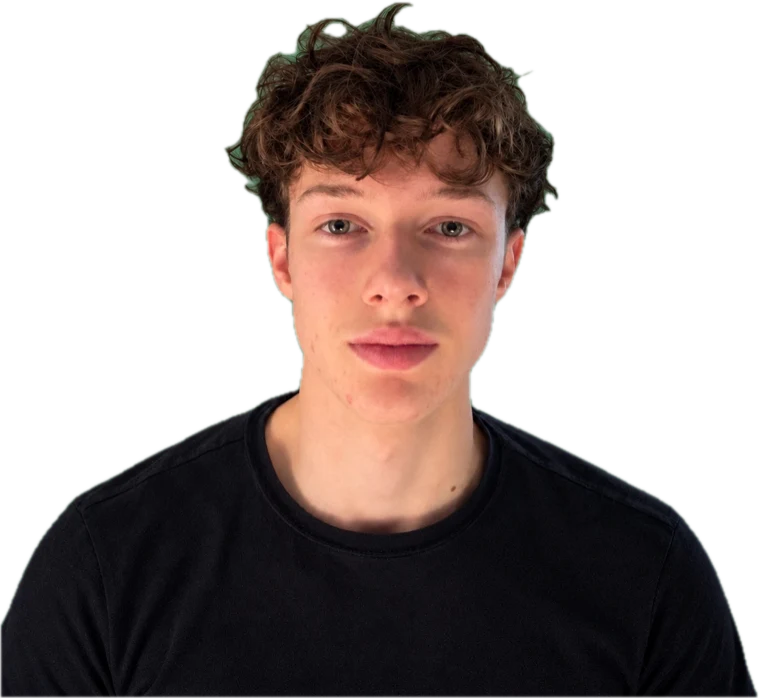
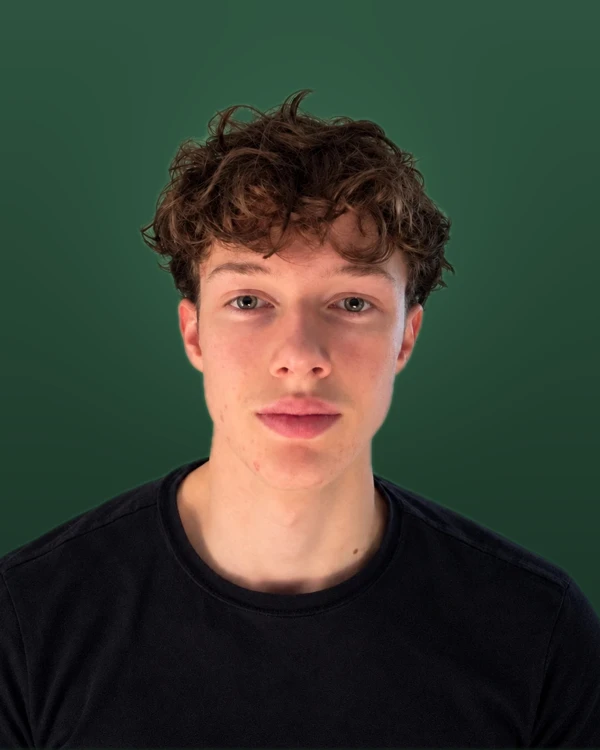
Portraet kleiner und ohne Freistellkante, Bewertungen zurueck mit Feinschliff
Das harte Freistellen hat an den Haaren gefranst. Jetzt wird nicht mehr
ausgeschnitten: der Studiohintergrund ist auf das Sektionsgruen
umgefaerbt, mit weichem Uebergang an den Haaren und einem Lichtschein
hinter dem Kopf. Das Bild laeuft ueber eine ovale Maske in die Flaeche
aus, es gibt also keine Kante mehr. Statt 430 ist es jetzt 300 Pixel
breit, die Spalte entsprechend schmaler, Text bekommt mehr Platz.

Die Bewertungen sind wieder der alte Aufbau mit Umschalter und Banner,
nur besser: die drei grauen Platzhalter-Symbole sind durch die echten
Kundenfotos ersetzt, der dritte bleibt als ruhiger Platzhalter. Dazu
fuenf goldene Sterne ueber dem Zitat, Name in der Sans statt Serife,
Kennzahl mit Ziffernbreite, und das Banner hebt sich beim Zeigen.

diff --git a/index.html b/index.html
@@ -336,45 +336,6 @@
 
 
 
-  /* ===== Kundenstimmen: zwei Karten, beide sofort sichtbar ===== */
-  .stimmen{ display:grid; grid-template-columns:1fr 1fr; gap:22px; margin-top:46px }
-  .stimme{ position:relative; display:flex; flex-direction:column; background:#fff;
-    border-radius:24px; padding:30px 30px 26px; margin:0;
-    box-shadow:inset 0 1px 0 rgba(255,255,255,.9), inset 0 0 0 1px rgba(74,124,92,.08),
-      0 2px 4px rgba(20,42,30,.05), 0 26px 50px -30px rgba(20,42,30,.5);
-    transition:transform .35s cubic-bezier(.22,1,.3,1), box-shadow .35s cubic-bezier(.22,1,.3,1) }
-  .stimme:hover{ transform:translateY(-5px);
-    box-shadow:inset 0 1px 0 rgba(255,255,255,.9), inset 0 0 0 1px rgba(74,124,92,.14),
-      0 4px 8px rgba(20,42,30,.06), 0 36px 64px -32px rgba(20,42,30,.6) }
-  .st-kopf{ display:flex; align-items:center; gap:14px }
-  .st-foto{ width:56px; height:56px; border-radius:50%; flex:none; background-size:cover;
-    background-position:center 18%; box-shadow:0 0 0 3px rgba(74,124,92,.12), 0 6px 14px -6px rgba(20,42,30,.5) }
-  .st-foto.lino{ background-image:var(--lino-foto-img); background-position:center 12% }
-  .st-foto.bergunde{ background-image:var(--bergunde-foto-img); background-position:center 20% }
-  .st-wer b{ display:block; font-size:16.5px; font-weight:600; color:var(--heading); letter-spacing:-.3px }
-  .st-wer span{ display:block; font-size:13.5px; color:var(--text); margin-top:2px }
-  .st-sterne{ margin-left:auto; font-size:13px; letter-spacing:1px; color:#D8A33A; white-space:nowrap }
-  .st-zitat{ margin:22px 0 0; font-family:var(--f-serif); font-style:italic; font-weight:400;
-    font-size:clamp(1.15rem,1.7vw,1.5rem); line-height:1.32; letter-spacing:-.4px;
-    color:var(--heading); text-wrap:pretty; flex:1 }
-  .st-zitat em{ font-style:italic; color:var(--accent) }
-  .st-fuss{ display:flex; align-items:flex-end; gap:18px; margin-top:26px; padding-top:20px;
-    border-top:1px solid rgba(74,124,92,.14) }
-  .st-zahl{ display:flex; align-items:baseline; gap:12px }
-  .st-zahl b{ font-family:var(--f-sans); font-weight:600; font-size:38px; line-height:1;
-    letter-spacing:-2px; color:var(--accent-dark); font-variant-numeric:tabular-nums }
-  .st-zahl span{ font-size:13px; line-height:1.35; color:var(--text) }
-  .st-beleg{ margin-left:auto; width:84px; height:84px; flex:none; border-radius:12px;
-    background:var(--lino-chat-img) center top/cover no-repeat, var(--greenlight);
-    box-shadow:0 2px 4px rgba(20,42,30,.1), 0 14px 26px -14px rgba(20,42,30,.6);
-    transform:rotate(3deg); transition:transform .3s cubic-bezier(.22,1,.3,1) }
-  .stimme:hover .st-beleg{ transform:rotate(0) scale(1.04) }
-  .st-hinweis{ margin-top:22px; text-align:center; font-size:14px; color:var(--text) }
-  @media (max-width:900px){
-    .stimmen{ grid-template-columns:1fr; gap:16px }
-    .stimme{ padding:24px 22px 22px }
-    .st-zahl b{ font-size:32px }
-  }
 
   /* ===== Laufendes Band: die vier Schritte, endlos ===== */
   .band{ position:relative; margin-top:38px; overflow:hidden;
@@ -1083,31 +1044,31 @@
 
   /* ===== Ueber uns, freigestellt und mit Auftritt ===== */
   .gr-buehne{ position:relative; z-index:3; display:grid;
-    grid-template-columns:minmax(0,.92fr) minmax(0,1fr); gap:40px; align-items:end;
+    grid-template-columns:minmax(0,.62fr) minmax(0,1fr); gap:56px; align-items:center;
     max-width:1120px; margin:40px auto 0 }
-  .gr-figur{ position:relative; display:flex; justify-content:center; align-items:flex-end }
-  /* Lichtschein hinter dem Kopf, damit der Freisteller auf dem Gruen sitzt */
-  .gr-schein{ position:absolute; left:50%; top:4%; width:88%; height:88%; transform:translateX(-50%);
-    border-radius:50%; z-index:1;
-    background:radial-gradient(50% 50% at 50% 45%, rgba(159,224,188,.3), rgba(159,224,188,.08) 55%, transparent 72%);
-    filter:blur(26px);
-    opacity:0; transition:opacity 1s ease .1s }
+  .gr-figur{ position:relative; display:flex; justify-content:center; align-items:center }
+  /* Lichtschein hinter dem Kopf */
+  .gr-schein{ position:absolute; left:50%; top:46%; width:74%; height:74%;
+    transform:translate(-50%,-50%); border-radius:50%; z-index:1;
+    background:radial-gradient(50% 50% at 50% 50%, rgba(159,224,188,.22), transparent 70%);
+    filter:blur(30px); opacity:0; transition:opacity 1s ease .1s }
   .reveal.is-visible .gr-schein{ opacity:1 }
-  .gr-figur img{ position:relative; z-index:2; width:min(100%,430px); height:auto; display:block;
-    -webkit-mask-image:linear-gradient(180deg, #000 76%, rgba(0,0,0,0) 99%);
-    mask-image:linear-gradient(180deg, #000 76%, rgba(0,0,0,0) 99%);
-    filter:drop-shadow(0 26px 40px rgba(0,0,0,.45));
-    opacity:0; transform:translateY(34px) scale(.975);
-    transition:opacity .9s cubic-bezier(.16,1,.3,1), transform 1.05s cubic-bezier(.16,1,.3,1) }
+  /* Das Bild laeuft an den Raendern in die Flaeche aus, dadurch kein Kasten
+     und keine ausgefransten Haare */
+  .gr-figur img{ position:relative; z-index:2; width:min(100%,300px); height:auto; display:block;
+    -webkit-mask-image:radial-gradient(68% 60% at 50% 42%, #000 56%, rgba(0,0,0,0) 92%);
+    mask-image:radial-gradient(68% 60% at 50% 42%, #000 56%, rgba(0,0,0,0) 92%);
+    opacity:0; transform:translateY(22px) scale(.98);
+    transition:opacity .9s cubic-bezier(.16,1,.3,1), transform 1s cubic-bezier(.16,1,.3,1) }
   .reveal.is-visible .gr-figur img{ opacity:1; transform:none }
   /* Kleines Schild auf der Flaeche, mit pulsierendem Punkt */
-  .gr-marke{ position:absolute; z-index:3; right:2%; bottom:14%; display:inline-flex; align-items:center;
-    gap:8px; padding:9px 15px; border-radius:100px; font-size:12.5px; font-weight:600;
+  .gr-marke{ position:absolute; z-index:3; left:50%; transform:translateX(-50%); bottom:2%; display:inline-flex; align-items:center;
+    gap:8px; padding:9px 15px; border-radius:100px; font-size:12.5px; font-weight:600; white-space:nowrap;
     color:var(--accent-dark); background:rgba(255,255,255,.92); border:1px solid rgba(74,124,92,.18);
     box-shadow:0 10px 24px -10px rgba(0,0,0,.6); -webkit-backdrop-filter:blur(8px); backdrop-filter:blur(8px);
-    opacity:0; transform:translateY(10px);
-    transition:opacity .7s ease .5s, transform .7s cubic-bezier(.16,1,.3,1) .5s }
-  .reveal.is-visible .gr-marke{ opacity:1; transform:none }
+    opacity:0;
+    transition:opacity .7s ease .5s }
+  .reveal.is-visible .gr-marke{ opacity:1; transform:translateX(-50%) }
   .gr-marke .puls{ width:8px; height:8px; border-radius:50%; background:var(--accent); flex:none;
     animation:puls 2.4s ease-in-out infinite }
   @keyframes puls{ 0%,100%{ box-shadow:0 0 0 0 rgba(74,124,92,.5) } 50%{ box-shadow:0 0 0 6px rgba(74,124,92,0) } }
@@ -1125,15 +1086,15 @@
   .gr-zahlen div{ background:rgba(255,255,255,.06); border:1px solid rgba(255,255,255,.12);
     border-radius:18px; padding:20px 18px 17px;
     box-shadow:inset 0 1px 0 rgba(255,255,255,.12), 0 18px 30px -22px rgba(0,0,0,.9) }
-  .gr-zahlen b{ display:block; font-family:var(--f-sans); font-weight:600; font-size:28px;
+  .gr-zahlen b{ display:block; font-family:var(--f-sans); font-weight:600; font-size:26px; white-space:nowrap;
     letter-spacing:-1.2px; color:#fff; margin-bottom:7px; font-variant-numeric:tabular-nums }
   .gr-zahlen span{ font-size:13.5px; line-height:1.45; color:rgba(255,255,255,.62) }
   .gr-knoepfe{ margin-top:30px; display:flex; flex-wrap:wrap; gap:12px }
   @media (max-width:940px){
     .gr-buehne{ grid-template-columns:1fr; gap:10px; margin-top:26px }
     .gr-figur{ order:2 }
-    .gr-figur img{ width:min(84%,340px) }
-    .gr-marke{ right:6%; bottom:16% }
+    .gr-figur img{ width:min(70%,260px) }
+    .gr-marke{ bottom:4% }
     .gr-wort{ order:1; padding-bottom:0; text-align:center }
     .gr-absatz{ margin-left:auto; margin-right:auto }
     .gr-zahlen{ grid-template-columns:1fr }
@@ -1626,6 +1587,29 @@
   .rev-slide{ animation:revIn .5s cubic-bezier(.22,1,.3,1) }
   @keyframes revIn{ from{opacity:0; transform:translateY(10px)} to{opacity:1; transform:none} }
   @media (prefers-reduced-motion: reduce){ .rev-slide{animation:none} .rev-av{transition:none} }
+
+
+  /* ===== Bewertungen: Feinschliff ===== */
+  .rev-av.av-lino, .rev-av.av-bergunde{ background-size:cover; background-repeat:no-repeat }
+  .rev-av.av-lino{ background-image:var(--lino-foto-img); background-position:center 10% }
+  .rev-av.av-bergunde{ background-image:var(--bergunde-foto-img); background-position:center 18% }
+  .rev-av.av-lino svg, .rev-av.av-bergunde svg{ display:none }
+  .rev-av.av-offen{ background:linear-gradient(150deg,#E6ECE8,#CBD6CF) }
+  .rev-av.av-offen svg{ color:rgba(31,58,46,.42) }
+  .rev-av{ opacity:.62 }
+  .rev-av:hover{ opacity:.92 }
+
+  .rev-sterne{ display:block; font-size:15px; letter-spacing:3px; color:#E7B84B;
+    text-shadow:0 1px 2px rgba(0,0,0,.35) }
+  .rev-quote{ font-size:24.5px !important; line-height:1.34 !important; letter-spacing:-.7px !important }
+  @media (max-width:640px){ .rev-quote{ font-size:20px !important } }
+  .rev-who b{ font-family:var(--f-sans) !important; font-weight:600 !important;
+    font-size:19px !important; letter-spacing:-.5px !important }
+  .rev-who span{ letter-spacing:1.6px !important; font-size:11.5px !important }
+  .rev-stat b{ font-family:var(--f-sans) !important; font-weight:600 !important;
+    letter-spacing:-1.6px !important; font-variant-numeric:tabular-nums }
+  .rev-banner{ transition:transform .4s cubic-bezier(.22,1,.3,1), box-shadow .4s cubic-bezier(.22,1,.3,1) }
+  .rev-banner:hover{ transform:translateY(-4px) }
 
   /* ---------- BLOG ---------- */
   .blog-filter{ display:flex; gap:10px; flex-wrap:wrap; justify-content:center; margin-bottom:40px }
@@ -2569,47 +2553,68 @@
       <p class="subheading">Zwei Kunden, zwei Ergebnisse. Weitere Stimmen kommen dazu, sobald die Freigaben vorliegen.</p>
     </div>
 
-    <div class="stimmen">
-      <figure class="stimme reveal">
-        <div class="st-kopf">
-          <span class="st-foto lino" role="img" aria-label="Lino Schaller"></span>
-          <div class="st-wer">
-            <b>Lino Schaller</b>
-            <span>Karton &amp; Kraft · Entrümpelung Hannover</span>
+    <div class="reveal">
+      <div class="rev-avatars" role="tablist" aria-label="Kundenstimmen">
+        <button class="rev-av av-lino on" role="tab" aria-selected="true" data-go="1" aria-label="Stimme von Lino Schaller anzeigen">
+          <svg viewBox="0 0 24 24" fill="none" stroke="currentColor" stroke-width="1.2"><circle cx="12" cy="9" r="3.4"/><path d="M5 20.5c0-3.6 3.2-6.2 7-6.2s7 2.6 7 6.2"/></svg>
+        </button>
+        <button class="rev-av av-bergunde" role="tab" aria-selected="false" data-go="2" aria-label="Stimme von Roswitha Bergunde anzeigen">
+          <svg viewBox="0 0 24 24" fill="none" stroke="currentColor" stroke-width="1.2"><circle cx="12" cy="9" r="3.4"/><path d="M5 20.5c0-3.6 3.2-6.2 7-6.2s7 2.6 7 6.2"/></svg>
+        </button>
+        <button class="rev-av av-offen" role="tab" aria-selected="false" data-go="3" aria-label="Platz für die nächste Stimme">
+          <svg viewBox="0 0 24 24" fill="none" stroke="currentColor" stroke-width="1.2"><circle cx="12" cy="9" r="3.4"/><path d="M5 20.5c0-3.6 3.2-6.2 7-6.2s7 2.6 7 6.2"/></svg>
+        </button>
+      </div>
+
+      <div class="rev-slide" data-rev="1">
+        <div class="rev-banner">
+          <div class="rev-photo">
+            
+            <span class="lino-foto" role="img" aria-label="Lino Schaller, Inhaber von Karton &amp; Kraft"></span>
+            <span class="rev-chat" role="img" aria-label="WhatsApp-Nachricht von Lino Schaller: 19 qualifizierte Kaufanfragen in der ersten Woche"></span>
           </div>
-          <span class="st-sterne" aria-label="fünf von fünf Sternen">★★★★★</span>
-        </div>
-
-        <blockquote class="st-zitat">Ich hätte am Anfang ehrlich gesagt nicht gedacht, dass das so
-          gut funktioniert. Aber du hast mich <em>vom Gegenteil überzeugt</em>.</blockquote>
-
-        <div class="st-fuss">
-          <div class="st-zahl"><b data-zahl="19">0</b><span>qualifizierte Anfragen<br>in der ersten Woche</span></div>
-          <span class="st-beleg" role="img" aria-label="Nachricht von Lino Schaller"></span>
-        </div>
-      </figure>
-
-      <figure class="stimme reveal d1">
-        <div class="st-kopf">
-          <span class="st-foto bergunde" role="img" aria-label="Roswitha Bergunde"></span>
-          <div class="st-wer">
-            <b>Roswitha Bergunde</b>
-            <span>Logopädie &amp; Lerntherapie Lehrte</span>
+          <div class="rev-body">
+            <span class="rev-sterne" aria-label="fünf von fünf Sternen">★★★★★</span>
+            <p class="rev-quote">„Ich hätte am Anfang ehrlich gesagt echt nicht gedacht, dass das so gut funktioniert. Aber du hast mich wirklich vom Gegenteil überzeugt. Wir konnten jetzt schon in der ersten Woche 19 qualifizierte Kaufanfragen generieren.“</p>
+            <div class="rev-who"><b>Lino Schaller</b><span>Karton &amp; Kraft · Entrümpelung Hannover · Suchmaschinen-Rebuild</span></div>
+            <div class="rev-stat"><b>19</b><span>qualifizierte Anfragen in Woche 1</span></div>
           </div>
-          <span class="st-sterne" aria-label="fünf von fünf Sternen">★★★★★</span>
         </div>
-
-        <blockquote class="st-zitat">Durch Paul haben wir es geschafft, in unserem Stadtteil schon
-          nach zwei Tagen <em>unter den Praxen auf Platz 1</em> zu stehen.</blockquote>
-
-        <div class="st-fuss">
-          <div class="st-zahl"><b>Platz 1</b><span>lokal in Lehrte,<br>nach zwei Tagen</span></div>
+      </div>
+      <div class="rev-slide" data-rev="2" hidden>
+        <div class="rev-banner">
+          <div class="rev-photo">
+            <span class="bergunde-foto" role="img" aria-label="Roswitha Bergunde, Inhaberin der Praxis für Logopädie und Lerntherapie in Lehrte"></span>
+          </div>
+          <div class="rev-body">
+            <span class="rev-sterne" aria-label="fünf von fünf Sternen">★★★★★</span>
+            <p class="rev-quote">„Durch Paul haben wir es geschafft, in unserem Stadtteil schon
+              nach zwei Tagen unter den Praxen auf Platz 1 zu stehen.“</p>
+            <div class="rev-who"><b>Roswitha Bergunde</b><span>Logopädie &amp; Lerntherapie Lehrte · Website &amp; Sichtbarkeit</span></div>
+            <div class="rev-stat"><b>Platz 1</b><span>lokal in Lehrte, nach zwei Tagen</span></div>
+          </div>
         </div>
-      </figure>
+      </div>
+      <div class="rev-slide" data-rev="3" hidden>
+        <div class="rev-banner">
+          <div class="rev-photo">
+            <span class="ph" aria-hidden="true">
+              <svg width="58" height="58" viewBox="0 0 24 24" fill="none" stroke="currentColor" stroke-width="1.1"><circle cx="12" cy="8" r="3.6"/><path d="M4.5 20.5c0-3.8 3.4-6.5 7.5-6.5s7.5 2.7 7.5 6.5"/></svg>
+              <span>Coming soon</span>
+            </span>
+          </div>
+          <div class="rev-body">
+            <span class="rev-soon">Coming soon</span>
+            <p class="rev-quote">Hier steht die dritte Kundenstimme, sobald das Projekt
+              abgeschlossen ist.</p>
+          </div>
+        </div>
+      </div>
     </div>
 
-    <p class="st-hinweis reveal d2">Beide Stimmen liegen schriftlich vor. Weitere folgen, sobald die
-      laufenden Projekte abgeschlossen sind.</p>
+    <div class="btn-row center" style="margin-top:36px">
+      <a data-termin href="#kontakt" class="btn btn-primary">Kostenloses Erstgespräch</a>
+    </div>
   </div>
 </section>
 
@@ -2627,7 +2632,7 @@
   <div class="gr-buehne reveal d1">
     <div class="gr-figur">
       <span class="gr-schein" aria-hidden="true"></span>
-      <img src="paul-portraet.webp" alt="Paul Fasterding" width="760" height="698" loading="lazy" decoding="async">
+      <img src="paul-portraet.webp" alt="Paul Fasterding" width="600" height="750" loading="lazy" decoding="async">
       <span class="gr-marke" aria-hidden="true"><i class="puls"></i>Antwort meist am selben Tag</span>
     </div>
 
